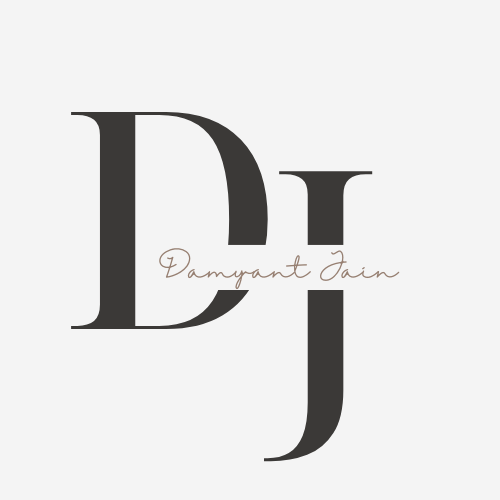
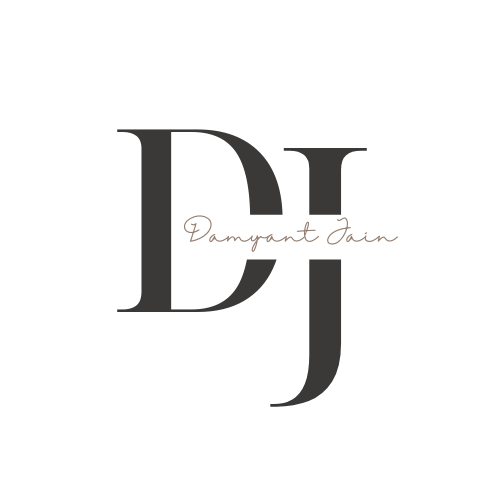
Added dark mode in Mobile view

Changed region(s): [[0.15, 0.21, 0.78, 0.93], [0.75, 0.45, 0.78, 0.48]]

diff --git a/src/components/NavBar.jsx b/src/components/NavBar.jsx
@@ -1,24 +1,16 @@
 import { Link } from "react-scroll";
-import dj from "./../assets/4.png";
+import dj from "./../assets/dj.png";
 import { useContext } from "react";
-import { useState } from "react";
-import djdark from "./../assets/5.png";
+import { useState, useEffect } from "react";
+import djdark from "./../assets/dj_dark.png";
 import ThemeContext from "../context/ThemeContext";
+import NavBarMobile from "./NavBarMobile";
+import useCalculateDuration from "../util/useCalculateDuration";
+import nav from "../db/nav";
 
 const NavBar = () => {
-  const calculateDuration = (target) => {
-    const targetPosition = document.querySelector(target).offsetTop;
-    const startPosition = window.scrollY;
-    const distance = Math.abs(startPosition - targetPosition);
-    const baseDuration = 400;
-    const additionalDuration = Math.log(distance + 1) * 100;
-    let duration = baseDuration + additionalDuration;
-    const minDuration = 400;
-    const maxDuration = 2000;
-    duration = Math.min(Math.max(duration, minDuration), maxDuration);
 
-    return duration;
-  };
+  const [isOpen, setIsOpen] = useState(false);
 
   const { darkMode, setDarkMode } = useContext(ThemeContext);
   console.log(darkMode);
@@ -26,6 +18,14 @@ const NavBar = () => {
   const toggleDarkMode = () => {
     setDarkMode(!darkMode);
   };
+
+  useEffect(() => {
+    if (isOpen) {
+      document.body.style.overflow = 'hidden';
+    } else {
+      document.body.style.overflow = 'auto';
+    }
+  }, [isOpen]);
 
   return (
     <div>
@@ -41,42 +41,17 @@ const NavBar = () => {
 
           <div className=" md:flex justify-center dark:text-[#e0e0e0]">
             <ul className=" flex font-poppins text-[#333333] items-center space-x-10 dark:text-[#e0e0e0] h-20">
-              <li className="transition-colors hover:text-[#9d9d9d]">
-                <Link
-                  to="home"
-                  smooth="easeInOutQuad"
-                  duration={() => calculateDuration("#home")}
-                >
-                  Home
-                </Link>
-              </li>
-              <li className="transition-colors hover:text-[#9d9d9d]">
-                <Link
-                  to="projects"
-                  smooth="easeInOutQuad"
-                  duration={() => calculateDuration("#projects")}
-                >
-                  Projects
-                </Link>
-              </li>
-              <li className="transition-colors hover:text-[#9d9d9d]">
-                <Link
-                  to="resume"
-                  smooth="easeInOutQuad"
-                  duration={() => calculateDuration("#resume")}
-                >
-                  Resume
-                </Link>
-              </li>
-              <li className="transition-colors hover:text-[#9d9d9d]">
-                <Link
-                  to="skills"
-                  smooth="easeInOutQuad"
-                  duration={() => calculateDuration("#skills")}
-                >
-                  Skills
-                </Link>
-              </li>
+              {nav.map((item) => (
+                <li className="transition-colors hover:text-[#9d9d9d]">
+                  <Link
+                    to={item.link}
+                    smooth="easeInOutQuad"
+                    duration={() => useCalculateDuration(`#${item.link}`)}
+                  >
+                    {item.title}
+                  </Link>
+                </li>
+              ))}
             </ul>
           </div>
           <div className={`flex justify-end relative`} onClick={toggleDarkMode}>
@@ -90,22 +65,28 @@ const NavBar = () => {
           </div>
         </div>
       </nav>
-      <div className="md:hidden pt-2  px-5">
-        <div className="flex items-center justify-between">
-          <div>
-            {darkMode ? (
-              <img src={djdark} className="h-20 w-20 bg-black" />
-            ) : (
-              <img src={dj} className="h-16 w-16" />
-            )}
-          </div>
-          <div>
-            <i class="fa-solid fa-bars fa-2x"></i>
+      {!isOpen && (
+        <div className="md:hidden pt-2  px-5">
+          <div className="flex items-center justify-between">
+            <div>
+              {darkMode ? (
+                <img src={djdark} className="h-16 w-16 bg-black" />
+              ) : (
+                <img src={dj} className="h-16 w-16" />
+              )}
+            </div>
+            <div>
+              <i style={{ color: darkMode ? "#f0f0f0" : "#333333" }}
+                onClick={() => setIsOpen(true)}
+                class="fa-solid fa-bars fa-2x"
+              ></i>
+            </div>
           </div>
         </div>
-      </div>
+      )}
+      <NavBarMobile isOpen={isOpen} setIsOpen={setIsOpen} />
     </div>
   );
-};
+};  
 
 export default NavBar;

diff --git a/src/components/NavBarMobile.jsx b/src/components/NavBarMobile.jsx
@@ -1,0 +1,52 @@
+import nav from "../db/nav";
+import { Link } from "react-scroll";
+import useCalculateDuration from "../util/useCalculateDuration";
+import { useContext } from "react";
+import ThemeContext from "../context/ThemeContext";
+
+const NavBarMobile = ({ isOpen, setIsOpen }) => {
+  const { darkMode, setDarkMode } = useContext(ThemeContext);
+  const toggleMenu = () => {
+    setIsOpen(!isOpen);
+  };
+
+  const handleThemeToggle = () => {
+    setDarkMode(!darkMode)
+    toggleMenu();
+  }
+
+  if (isOpen) {
+    return (
+      <div className="fixed inset-0 dark:bg-[#121212] bg-white z-50 flex flex-col justify-center items-center">
+        <button
+          onClick={toggleMenu}
+          className="dark:text-white text-3xl font-extralight absolute top-4 right-4"
+        >
+          X
+        </button>
+        <ul className="font-poppins text-[#333333] text-2xl space-y-6 dark:text-[#e0e0e0]">
+          {nav.map((item, index) => (
+            <li key={index} className="transition-colors hover:text-[#9d9d9d]">
+              <Link
+                onClick={toggleMenu}
+                to={item.link}
+                smooth="easeInOutQuad"
+                duration={() => useCalculateDuration(`#${item.link}`)}
+              >
+                {item.title}
+              </Link>
+            </li>
+          ))}
+        </ul>
+        <button
+          onClick={handleThemeToggle}
+          className="mt-6 p-2 bg-gray-800 dark:bg-gray-200 dark:text-[#333333] text-[#e0e0e0]"
+        >
+          {darkMode ? "Switch to Light Mode" : "Switch to Dark Mode"}
+        </button>
+      </div>
+    );
+  }
+};
+
+export default NavBarMobile;

diff --git a/src/util/useCalculateDuration.js b/src/util/useCalculateDuration.js
@@ -1,0 +1,15 @@
+const useCalculateDuration = (target) => {
+  const targetPosition = document.querySelector(target).offsetTop;
+  const startPosition = window.scrollY;
+  const distance = Math.abs(startPosition - targetPosition);
+  const baseDuration = 400;
+  const additionalDuration = Math.log(distance + 1) * 100;
+  let duration = baseDuration + additionalDuration;
+  const minDuration = 400;
+  const maxDuration = 2000;
+  duration = Math.min(Math.max(duration, minDuration), maxDuration);
+
+  return duration;
+};
+
+export default useCalculateDuration;

diff --git a/src/db/nav.js b/src/db/nav.js
@@ -1,0 +1,20 @@
+const nav = [
+  {
+    title: "Home",
+    link: "home",
+  },
+  {
+    title: "Projects",
+    link: "projects",
+  },
+  {
+    title: "Resume",
+    link: "resume",
+  },
+  {
+    title: "Skills",
+    link: "skills",
+  },
+];
+
+export default nav;
